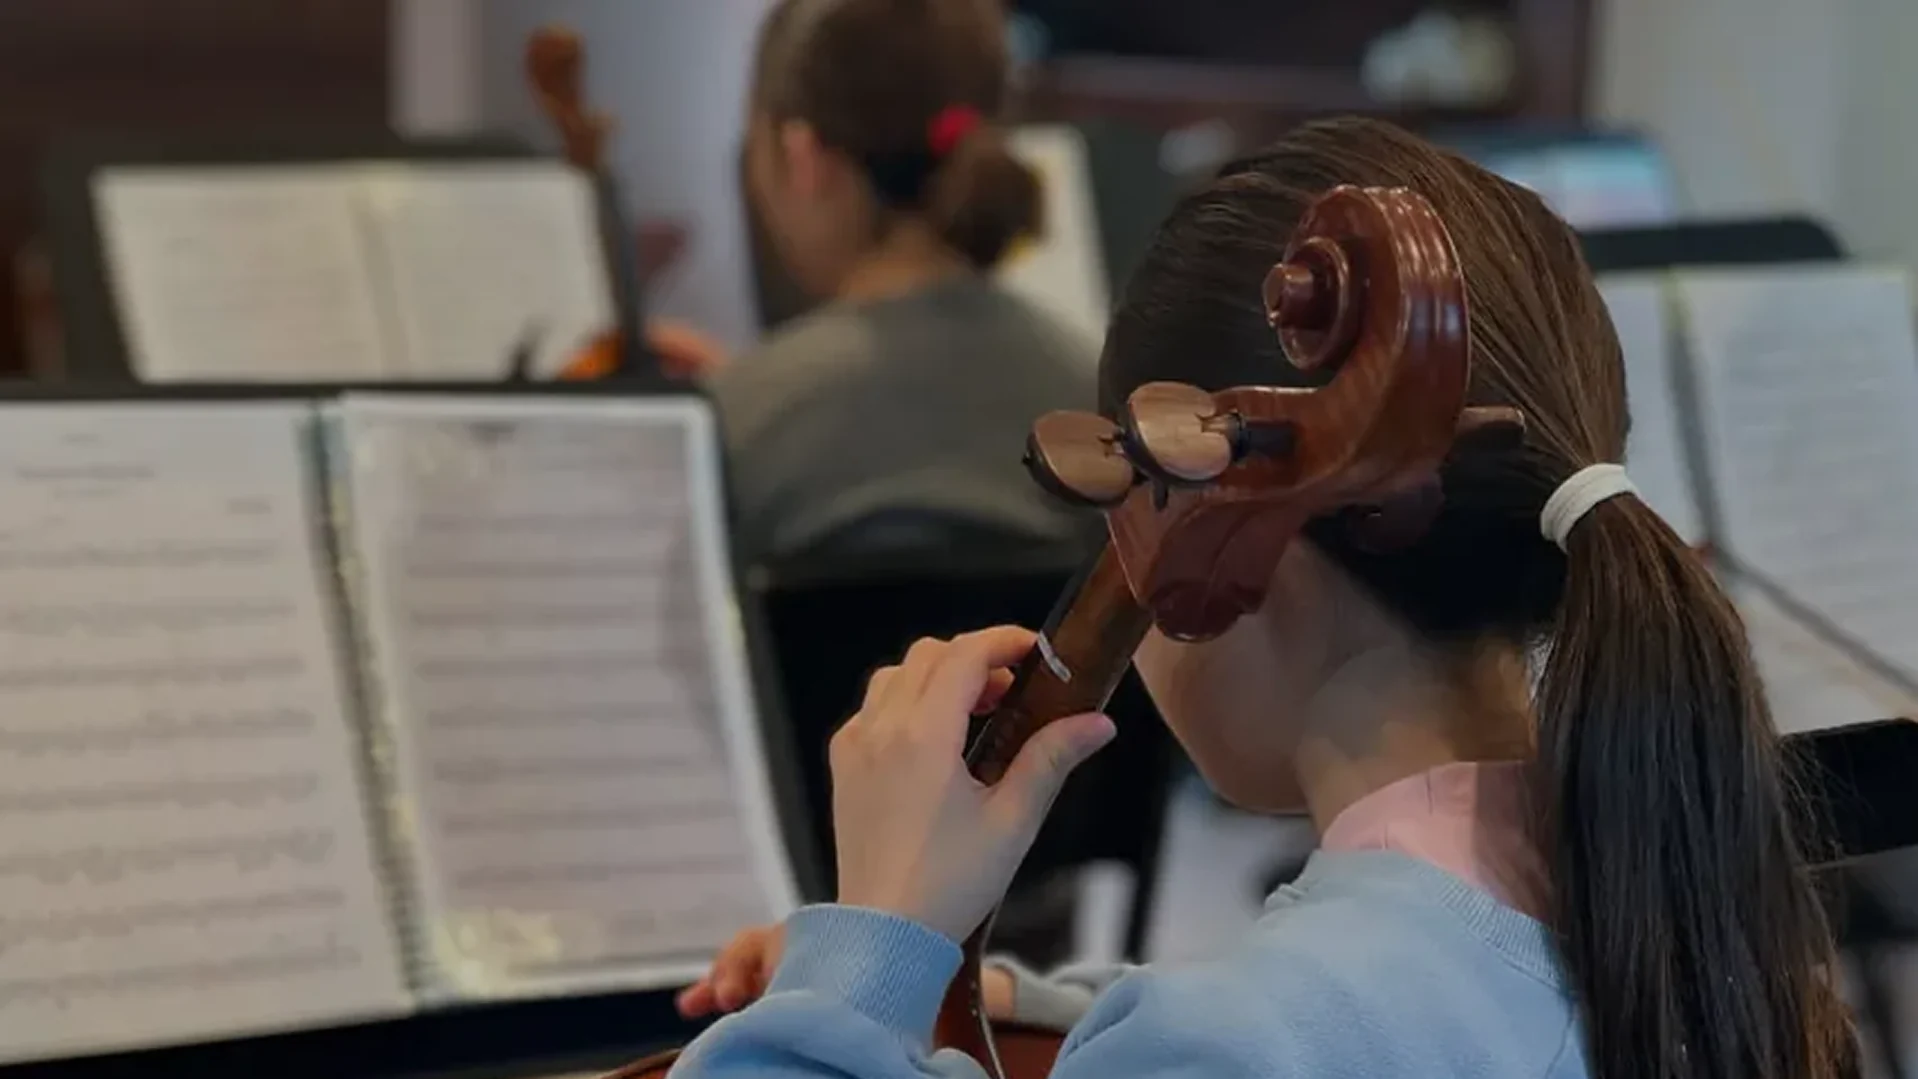
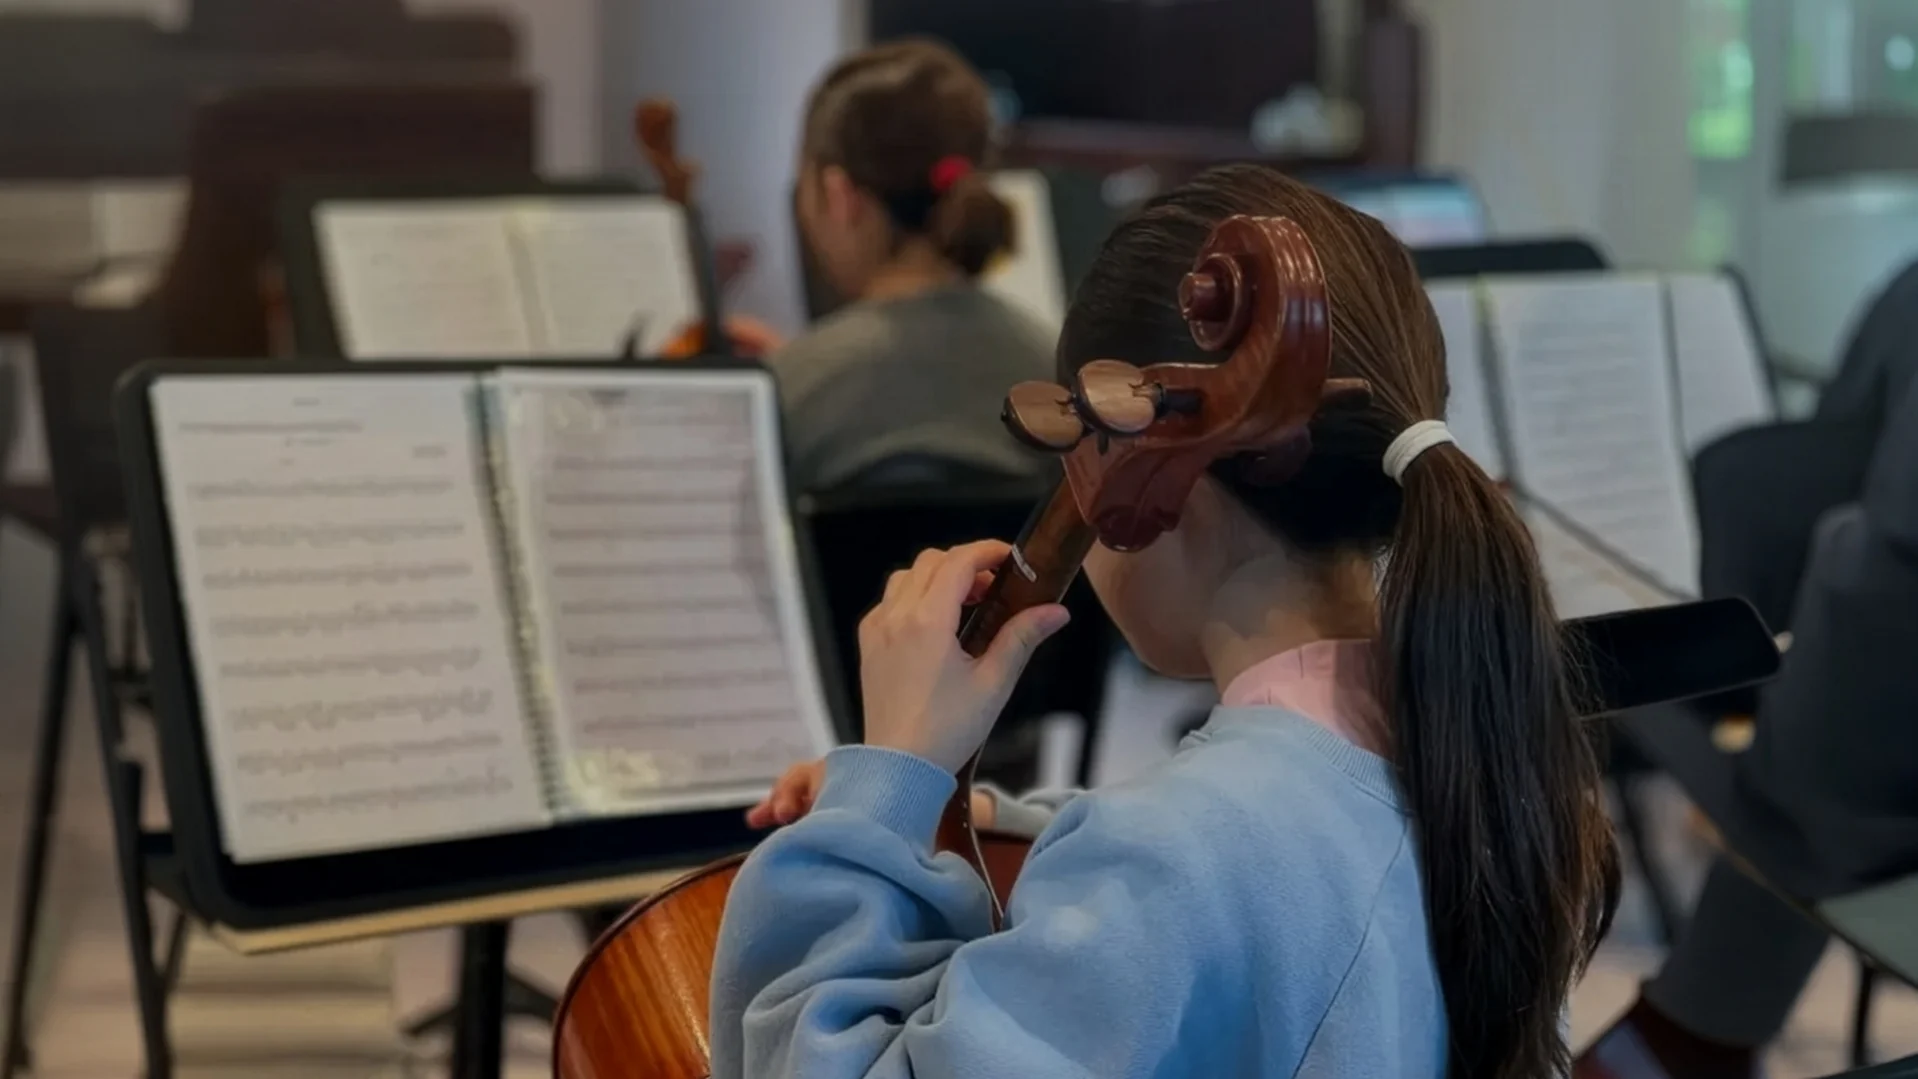
히어로 2·3번 사진 교체 · 푸터가 3번 칸 밑에 붙던 문제 수정
[히어로 사진]
2·3번을 새 컷으로 바꿨습니다. 같은 장면인데 더 당겨 잡은 것이라
휴대폰에서 훨씬 낫습니다 — 특히 2번은 웃는 아이가 정중앙에 옵니다.

  hero-2  2533KB PNG -> 125KB WebP (q86)
  hero-3  1964KB PNG -> 76KB  WebP (q86)
  4장 합계 418KB

검증(전과 같은 방식): 상단바 자리와 글 자리 대비가 4장 모두 AA 통과,
빨간 칸(상단바)이 얼굴을 덮지 않고 파란 칸(휴대폰 범위)에 주인공이
들어옵니다. 원본 PNG 는 assets/img/_원본/히어로/ 로 옮겼습니다.

[푸터가 3번 칸 밑에 붙던 문제]
넘겨주는 판단에 "전환 중" 이 빠져 있었습니다.
Swiper 는 전환이 시작되는 순간 activeIndex 를 먼저 올립니다. 그래서
3->4 전환이 아직 흐르는 중인데도 "마지막 칸" 으로 읽혔고, 그때 들어온
휠이 페이지를 밀어 버려서 전환 중인 화면 아래에 푸터가 따라붙었습니다.

전환 중에는 휠을 아예 삼켜 스냅도 페이지도 움직이지 않게 하고,
전환이 끝난 뒤에도 260ms 는 더 기다립니다 — 트랙패드 관성 꼬리가
도착하자마자 페이지를 끌어내리지 않게 하는 몫입니다.

diff --git a/web/components/SnapScroll.tsx b/web/components/SnapScroll.tsx
@@ -33,6 +33,10 @@ const SPEED = 700;
     전환이 끝나자마자 다음 휠을 받아 연속 스크롤이 답답하지 않습니다. */
 const THRESHOLD_TIME = 550;
 
+/** 칸에 도착한 뒤 이만큼은 휠을 받지 않습니다. 트랙패드 관성 꼬리가
+    도착하자마자 페이지를 끌어내리는 것을 막습니다. */
+const GRACE = 260;
+
 /** 창 높이가 이보다 낮으면 스냅을 끕니다. 한 칸이 한 화면이라
     낮은 창에서는 칸 안 내용이 넘치고, Swiper 는 넘친 부분을 잘라 냅니다.
     푸터를 스냅 밖으로 뺀 덕에 기준을 560 까지 낮출 수 있었습니다 —
@@ -57,6 +61,9 @@ export default function SnapScroll({
   const slides = Children.toArray(children).filter(isValidElement);
   const hdrRef = useRef<HTMLElement | null>(null);
   const swiperRef = useRef<SwiperClass | null>(null);
+  /** 마지막으로 칸에 도착한 시각. 갓 도착했을 때 관성 꼬리가 페이지를
+      끌어내리지 않게 하는 데 씁니다. */
+  const arrivedAt = useRef(0);
 
   /* 스냅을 끄는 두 가지 경우.
 
@@ -121,10 +128,19 @@ export default function SnapScroll({
      휠을 계속 가로채기 때문에, 푸터가 화면 아래 떠 있는 채로 뒤에서
      칸만 바뀝니다. 실제로 그 증상이 났습니다.
 
-     그래서 넘겨주는 시점을 여기서 직접 정합니다. 규칙은 두 줄입니다.
+     그래서 넘겨주는 시점을 여기서 직접 정합니다. 규칙은 셋입니다.
+       · 칸이 넘어가는 중이면          → 아무도 손대지 않습니다
        · 페이지가 이미 밀려 있으면      → 스냅은 손 떼고 페이지가 스크롤
        · 마지막 칸에서 아래로 굴리면    → 스냅은 손 떼고 페이지가 스크롤
      그 밖에는 스냅이 맡습니다.
+
+     ★ 첫 줄이 빠져 있어서 푸터가 3번 칸 밑에 붙어 보였습니다.
+       Swiper 는 전환이 시작되는 순간 activeIndex 를 먼저 올립니다.
+       그래서 3→4 전환이 아직 흐르는 중인데도 "마지막 칸" 으로 읽혀,
+       그때 들어온 휠이 페이지를 밀어 버렸습니다. 전환 중에는 휠을
+       아예 삼켜서 스냅도 페이지도 움직이지 않게 합니다.
+       전환이 끝난 뒤 GRACE 만큼은 더 기다립니다 — 트랙패드 관성
+       꼬리가 도착하자마자 페이지를 끌어내리지 않게 하는 몫입니다.
 
      window 의 캡처 단계에서 가로채 stopPropagation 하면, 컨테이너에
      걸린 Swiper 의 휠 처리기가 아예 돌지 않습니다. preventDefault 는
@@ -136,11 +152,22 @@ export default function SnapScroll({
     const onWheel = (e: WheelEvent) => {
       const sw = swiperRef.current;
       if (!sw || !sw.enabled) return;
+
+      /* 칸이 넘어가는 중이거나 막 도착한 참이면 아무도 손대지 않습니다 */
+      const settling = sw.animating || performance.now() - arrivedAt.current < GRACE;
+      if (settling) {
+        if (e.cancelable) e.preventDefault();
+        e.stopPropagation();
+        return;
+      }
+
       const atLast = sw.activeIndex >= sw.slides.length - 1;
       const handOff = window.scrollY > 0 || (atLast && e.deltaY > 0);
+      /* 넘겨줄 때는 Swiper 만 막습니다. preventDefault 는 하지 않으므로
+         브라우저가 평범하게 스크롤합니다. */
       if (handOff) e.stopPropagation();
     };
-    window.addEventListener("wheel", onWheel, { capture: true, passive: true });
+    window.addEventListener("wheel", onWheel, { capture: true, passive: false });
     return () => window.removeEventListener("wheel", onWheel, { capture: true });
   }, []);
 
@@ -177,7 +204,10 @@ export default function SnapScroll({
         /* 위로 갈 때만 미리 바꿉니다 */
         if (s.activeIndex < s.previousIndex) paint(s.activeIndex);
       }}
-      onSlideChangeTransitionEnd={(s: SwiperClass) => paint(s.activeIndex)}
+      onSlideChangeTransitionEnd={(s: SwiperClass) => {
+        arrivedAt.current = performance.now();
+        paint(s.activeIndex);
+      }}
       onBreakpoint={(s: SwiperClass) => {
         if (!s.enabled) hdrRef.current?.classList.remove("is-solid");
       }}
